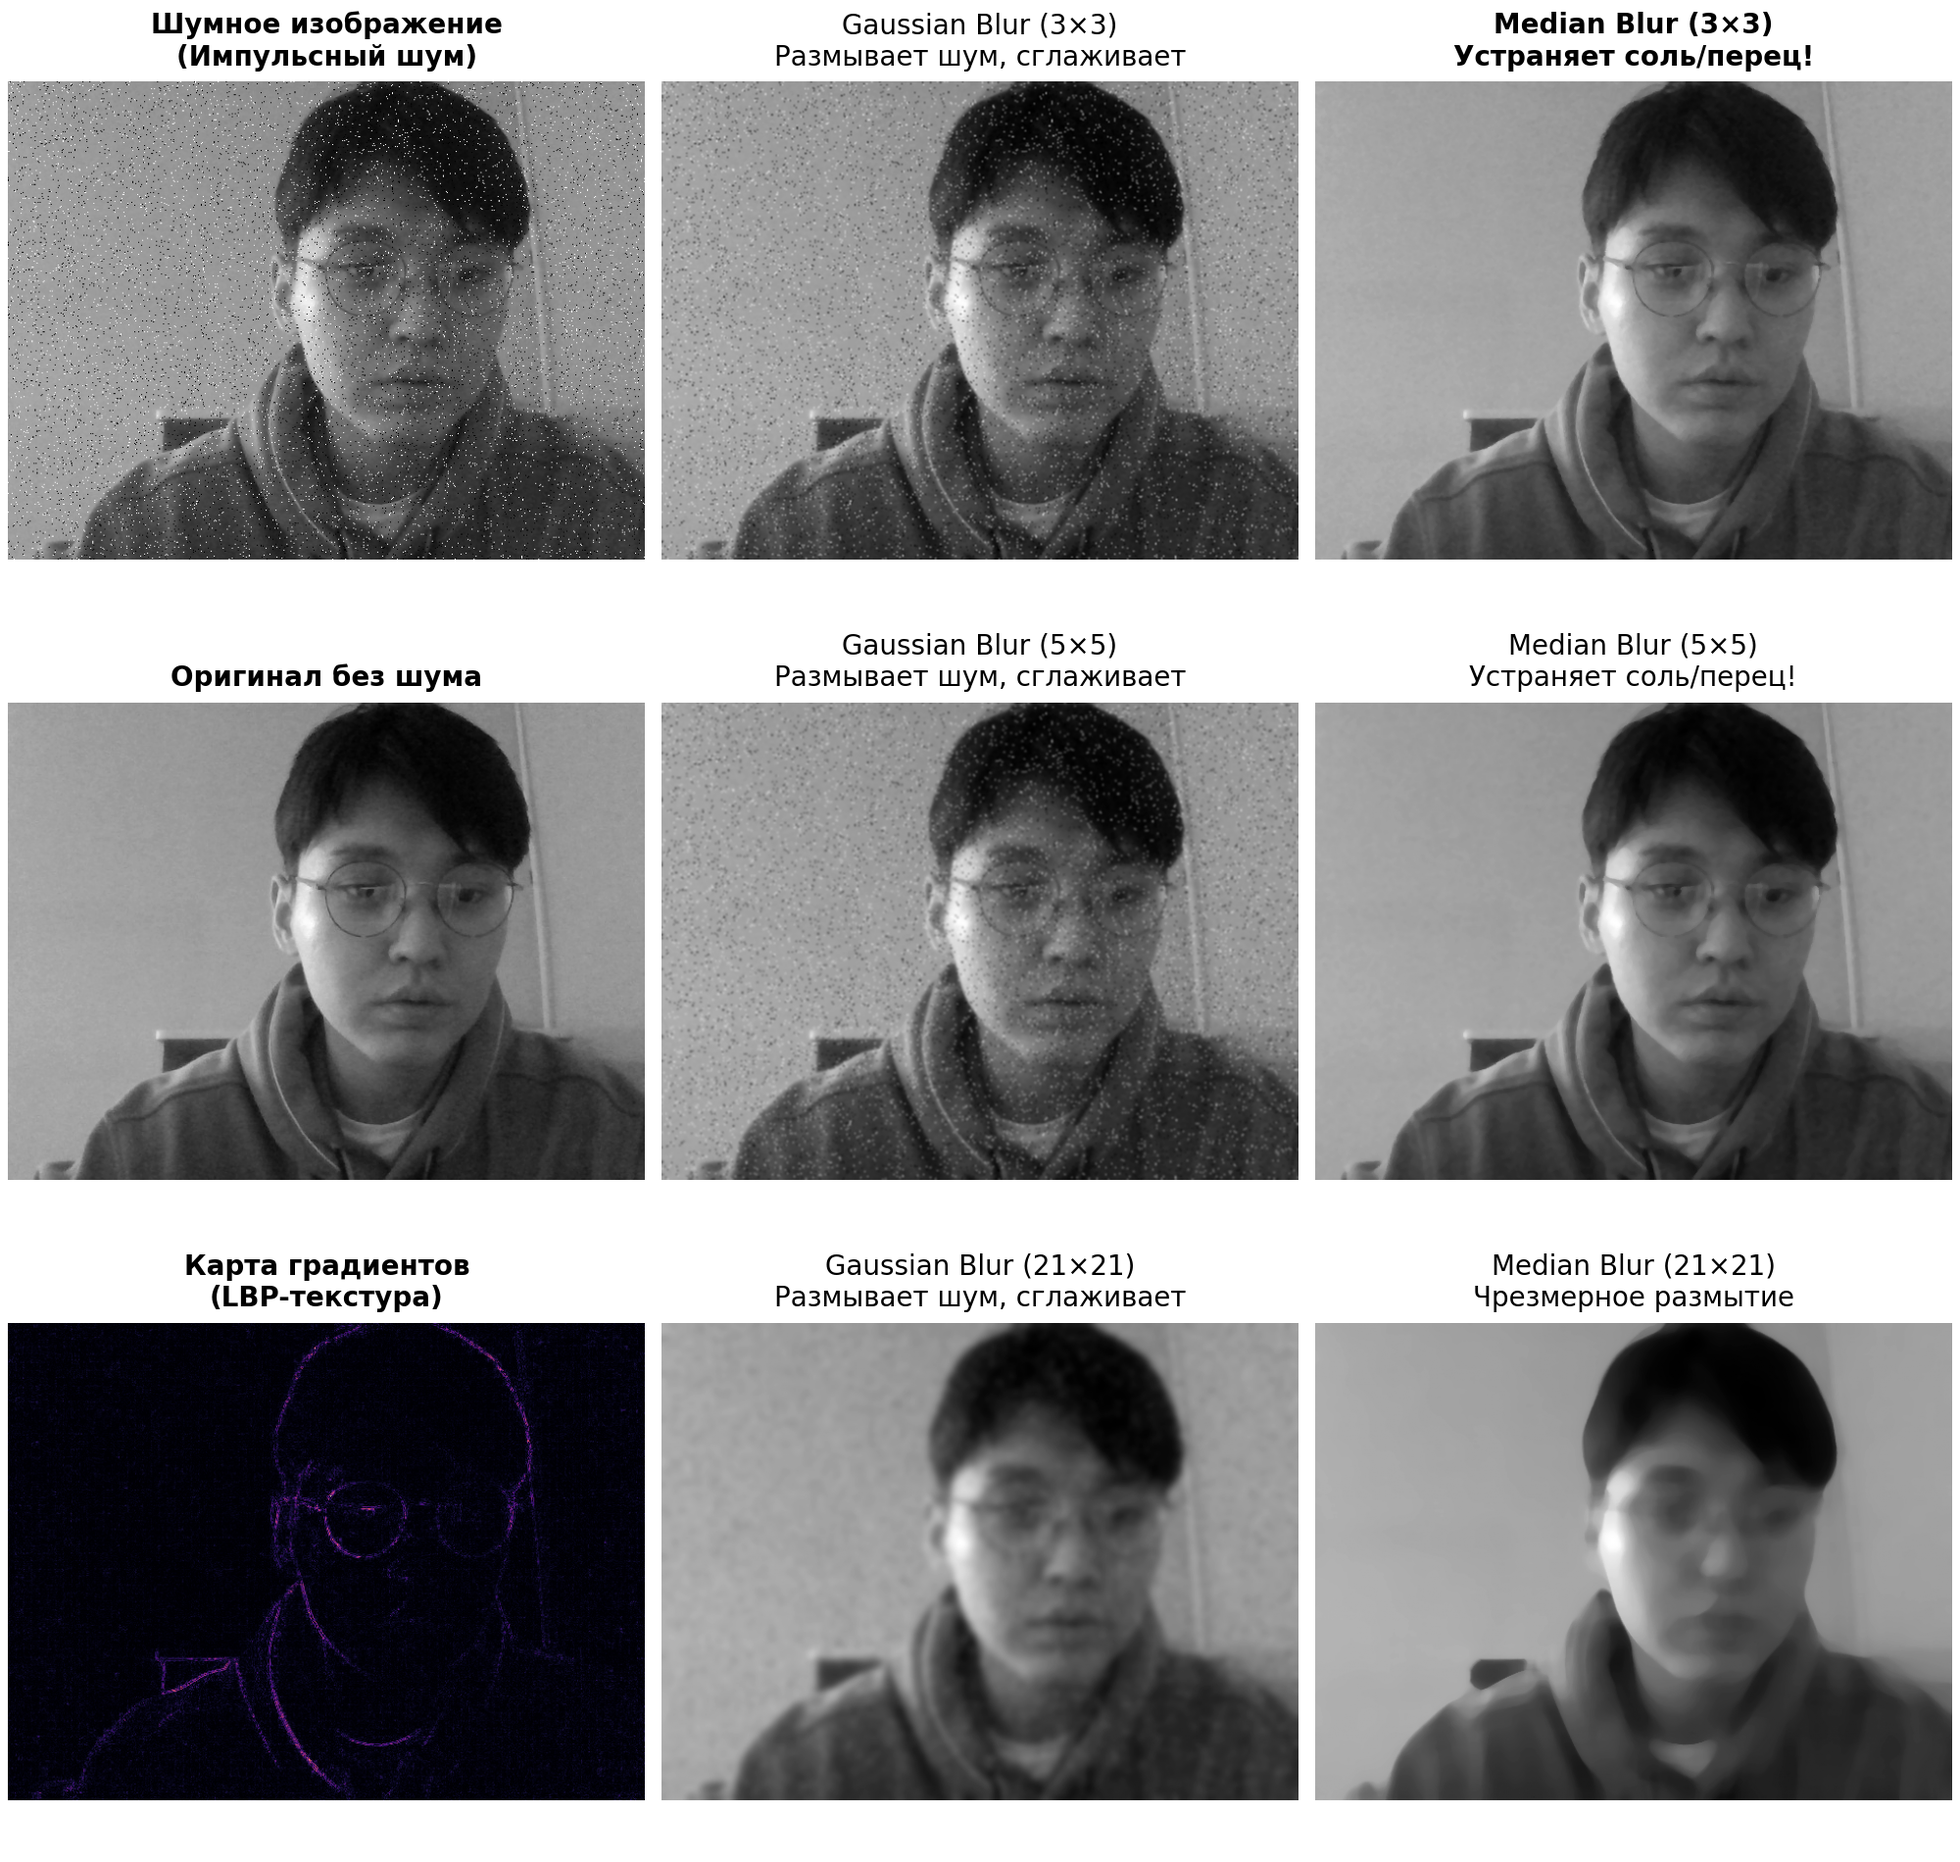
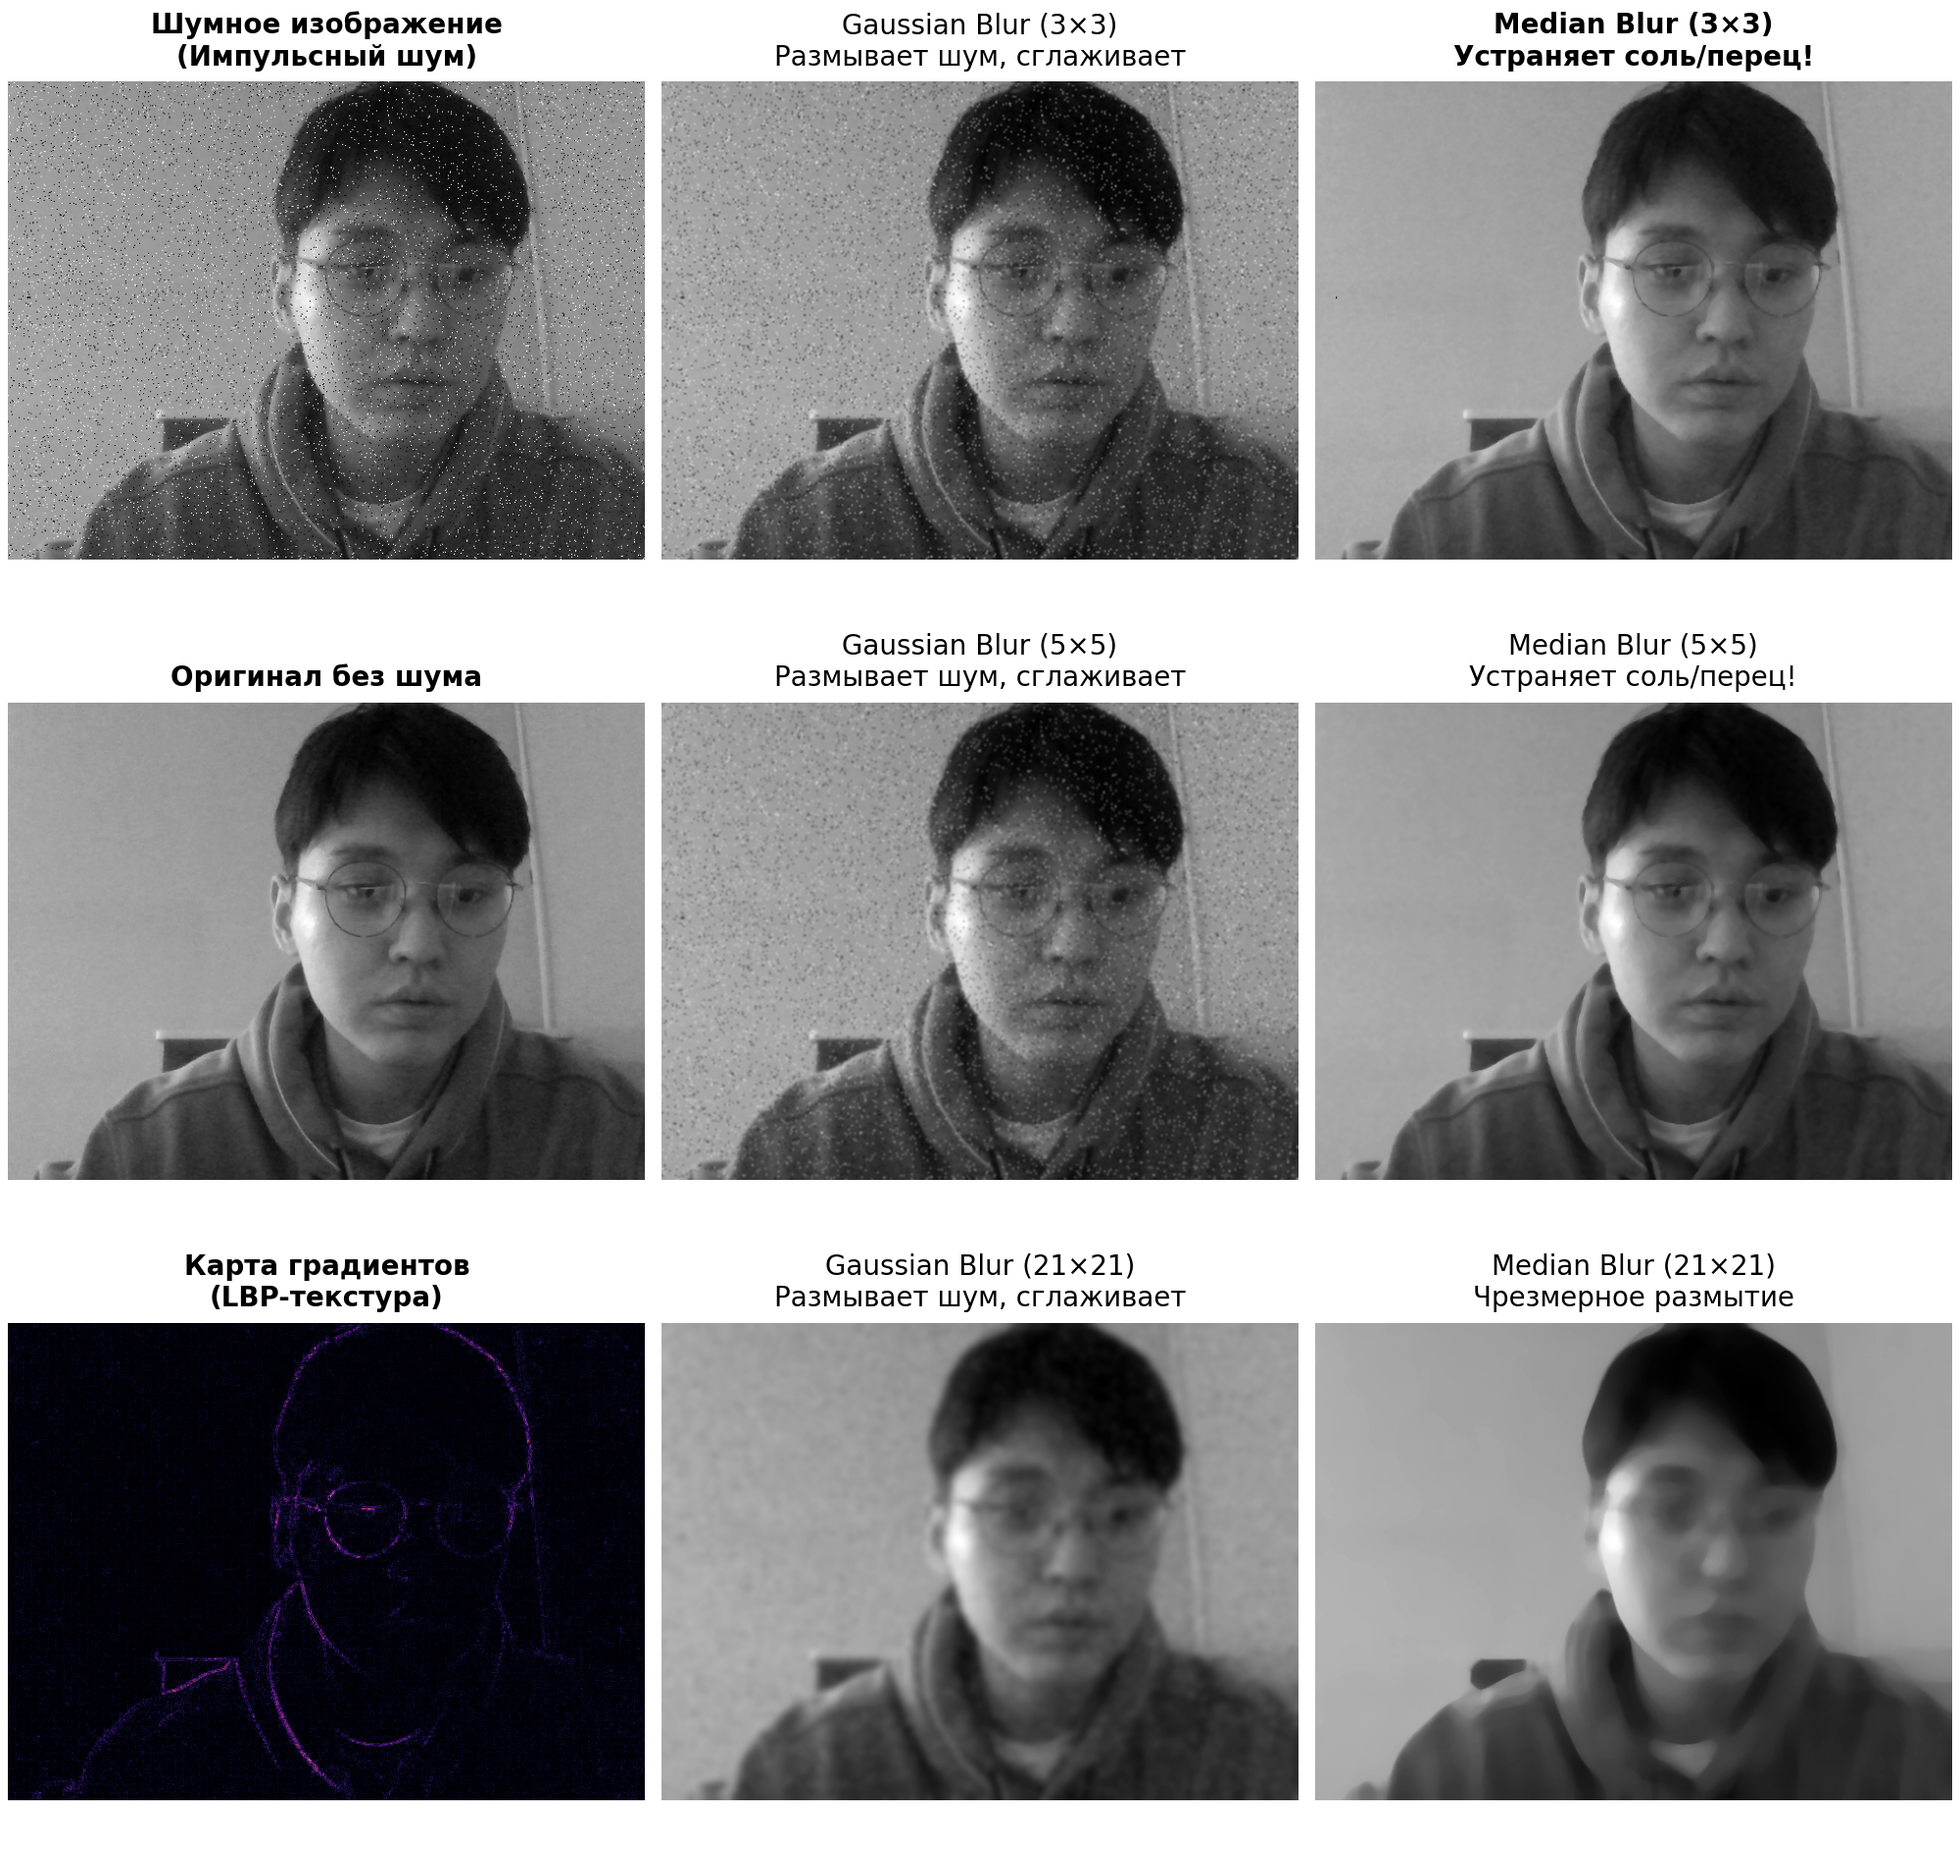
Save completed Lab 9 and Lab 10 execution outputs, anchor REPORTS_DIR to project root

diff --git a/src/lab11_spoofing_liveness.py b/src/lab11_spoofing_liveness.py
@@ -29,21 +29,21 @@ plt.style.use("default")
 plt.rcParams['font.sans-serif'] = ['DejaVu Sans', 'Arial', 'Calibri']
 plt.rcParams['axes.unicode_minus'] = False
 
-REPORTS_DIR = Path("reports")
-DARKHAN_FACES_DIR = Path("datasets/darkhan_face")
+PROJECT_ROOT = Path(__file__).resolve().parent.parent
+REPORTS_DIR = PROJECT_ROOT / "reports"
+DARKHAN_FACES_DIR = PROJECT_ROOT / "datasets" / "darkhan_face"
 REPORTS_DIR.mkdir(parents=True, exist_ok=True)
 
 
 def safe_imread(path, flags=cv2.IMREAD_COLOR):
-    p_str = str(path)
-    img = cv2.imread(p_str, flags)
-    if img is not None:
-        return img
     try:
+        p_str = str(path)
         data = np.fromfile(p_str, dtype=np.uint8)
-        return cv2.imdecode(data, flags)
+        if data is not None and len(data) > 0:
+            return cv2.imdecode(data, flags)
     except Exception:
-        return None
+        pass
+    return None
 
 
 def calculate_laplacian_variance(gray_img):

diff --git a/src/lab10_metrics_eer.py b/src/lab10_metrics_eer.py
@@ -30,7 +30,8 @@ plt.style.use("default")
 plt.rcParams['font.sans-serif'] = ['DejaVu Sans', 'Arial', 'Calibri']
 plt.rcParams['axes.unicode_minus'] = False
 
-REPORTS_DIR = Path("reports")
+PROJECT_ROOT = Path(__file__).resolve().parent.parent
+REPORTS_DIR = PROJECT_ROOT / "reports"
 REPORTS_DIR.mkdir(parents=True, exist_ok=True)
 
 

diff --git a/src/lab12_multimodal_fusion.py b/src/lab12_multimodal_fusion.py
@@ -29,7 +29,8 @@ plt.style.use("default")
 plt.rcParams['font.sans-serif'] = ['DejaVu Sans', 'Arial', 'Calibri']
 plt.rcParams['axes.unicode_minus'] = False
 
-REPORTS_DIR = Path("reports")
+PROJECT_ROOT = Path(__file__).resolve().parent.parent
+REPORTS_DIR = PROJECT_ROOT / "reports"
 REPORTS_DIR.mkdir(parents=True, exist_ok=True)
 
 

diff --git a/src/lab13_biometric_mfa.py b/src/lab13_biometric_mfa.py
@@ -32,7 +32,8 @@ plt.style.use("default")
 plt.rcParams['font.sans-serif'] = ['DejaVu Sans', 'Arial', 'Calibri']
 plt.rcParams['axes.unicode_minus'] = False
 
-REPORTS_DIR = Path("reports")
+PROJECT_ROOT = Path(__file__).resolve().parent.parent
+REPORTS_DIR = PROJECT_ROOT / "reports"
 REPORTS_DIR.mkdir(parents=True, exist_ok=True)
 
 

diff --git a/src/lab14_privacy_biohashing.py b/src/lab14_privacy_biohashing.py
@@ -35,7 +35,8 @@ plt.style.use("default")
 plt.rcParams['font.sans-serif'] = ['DejaVu Sans', 'Arial', 'Calibri']
 plt.rcParams['axes.unicode_minus'] = False
 
-REPORTS_DIR = Path("reports")
+PROJECT_ROOT = Path(__file__).resolve().parent.parent
+REPORTS_DIR = PROJECT_ROOT / "reports"
 REPORTS_DIR.mkdir(parents=True, exist_ok=True)
 
 
